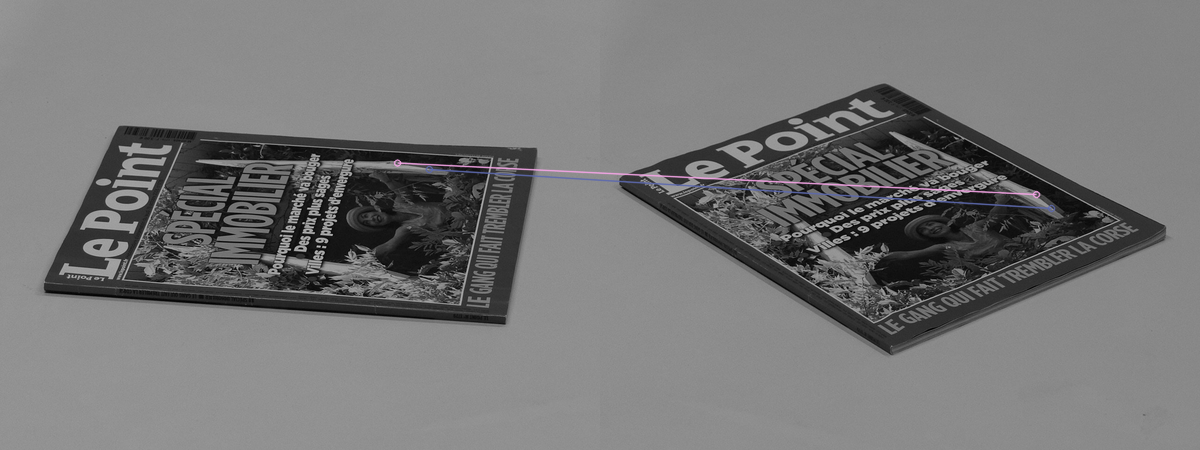
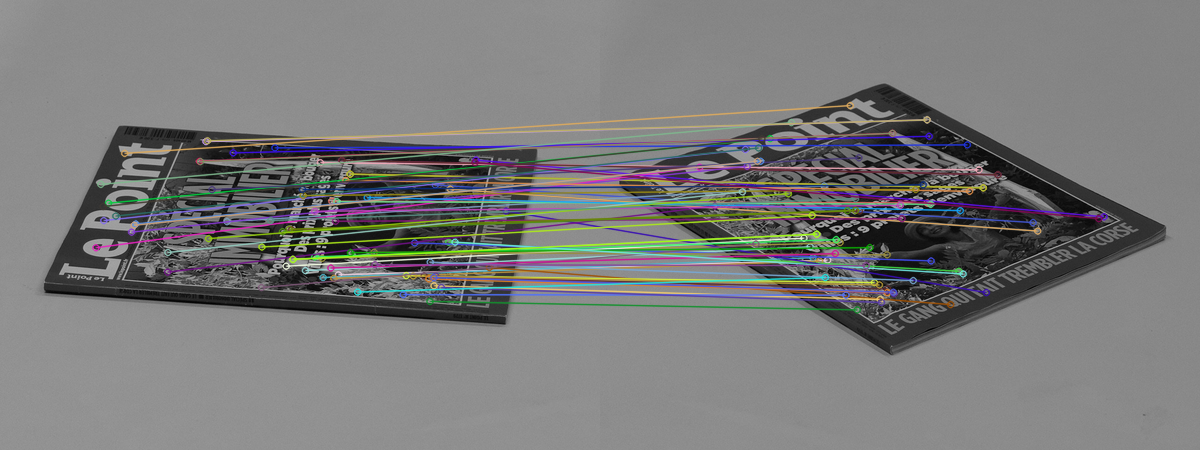
FLANN matching + commenting

Changed region(s): [[0.0617, 0.2178, 0.925, 0.7156], [0.1233, 0.5911, 0.185, 0.6222]]

diff --git a/CSS487-Project/main.cpp b/CSS487-Project/main.cpp
@@ -24,20 +24,20 @@ const string IMAGE_2_FILENAME = "image2.png";
 
 const int BEST_MATCHES_TO_DISPLAY = 75;
 
-const float DISTANCE_RATIO_THRESHOLD = 0.65f;
+const float DISTANCE_RATIO_THRESHOLD = 0.7f;
 
-// standardSIFT: Performs the standard function of SIFT.
-// Preconditions: image passed in is a Mat that represents a grayscale image.
-// Postconditions: keypoints and descriptors will be filled in.
-void SIFTDetectAndCompute(const Mat& image, vector<KeyPoint>& keypoints, Mat& descriptors) {
+// BRISKDetectAndCompute: Performs keypoint detection and descriptor calculation via BRISK.
+// Preconditions: Image passed in is a Mat that represents a grayscale image.
+// Postconditions: Keypoints and descriptors will be filled in.
+void BRISKDetectAndCompute(const Mat& image, vector<KeyPoint>& keypoints, Mat& descriptors) {
 	Ptr<BRISK> ptrBrisk = BRISK::create();
 	ptrBrisk->detect(image, keypoints);
 	ptrBrisk->compute(image, keypoints, descriptors);
 }
 
 // main:
-// preconditions: 
-// postconditions: 
+// Preconditions: 
+// Postconditions: 
 int main(int argc, char* argv[])
 {
 	// Load up the images.
@@ -51,8 +51,8 @@ int main(int argc, char* argv[])
 
 	// First image.
 	auto startTime = chrono::high_resolution_clock::now();
-	SIFTDetectAndCompute(image1, keypoints1, descriptors1);
-	//asd.detectAndCompute(image1, keypoints1, descriptors1);		// ASIFT.
+	//BRISKDetectAndCompute(image1, keypoints1, descriptors1);
+	asd.detectAndCompute(image1, keypoints1, descriptors1);		// ASIFT.
 	auto endTime = chrono::high_resolution_clock::now();
 	auto time = endTime - startTime;
 	cout << "Keypoints for first image found ("
@@ -60,8 +60,8 @@ int main(int argc, char* argv[])
 
 	// Second image.
 	startTime = chrono::high_resolution_clock::now();
-	SIFTDetectAndCompute(image2, keypoints2, descriptors2);
-	//asd.detectAndCompute(image2, keypoints2, descriptors2);		// ASIFT.
+	//BRISKDetectAndCompute(image2, keypoints2, descriptors2);
+	asd.detectAndCompute(image2, keypoints2, descriptors2);		// ASIFT.
 	endTime = chrono::high_resolution_clock::now();
 	time = endTime - startTime;
 	cout << "Keypoints for second image found ("
@@ -69,18 +69,21 @@ int main(int argc, char* argv[])
 	cout << "Performing matching..." << endl;
 	
 	// Match descriptors between images.
-	BFMatcher bfm = BFMatcher(NORM_HAMMING);
+	FlannBasedMatcher matcher;
+	//BFMatcher matcher = BFMatcher(NORM_HAMMING);
 	vector<vector<DMatch>> matches;
 	vector<DMatch> bestMatches;
 
+	descriptors1.convertTo(descriptors1, CV_32F);				// Convert to CV_32F to work with FLANN.
+	descriptors2.convertTo(descriptors2, CV_32F);				// Convert to CV_32F to work with FLANN.
 	startTime = chrono::high_resolution_clock::now();
-	bfm.knnMatch(descriptors1, descriptors2, matches, 2);
+	matcher.knnMatch(descriptors1, descriptors2, matches, 2);
 	endTime = chrono::high_resolution_clock::now();
 	time = endTime - startTime;
 	cout << "Found " << matches.size() << " matches("
 			<< time / chrono::milliseconds(1) << " ms)" << endl;
 
-	// Extract the best matches.
+	// Extract the best matches using Lowe's ratio test.
 	startTime = chrono::high_resolution_clock::now();
 	for (int i = 0; i < matches.size(); i++) {
 		float distanceRatio = matches[i][0].distance / matches[i][1].distance;

diff --git a/CSS487-Project/ASiftDetector.cpp b/CSS487-Project/ASiftDetector.cpp
@@ -1,13 +1,20 @@
+// ASiftDetector.cpp
+// Author: Matt Sheckells, from http://www.mattsheckells.com/opencv-asift-c-implementation/
+// Modified by: Derek Slater, Shakeel Khan
+
+// Misc. imports.
 #include "ASiftDetector.h"
 
+// STD imports.
 #include <iostream>
+#define _USE_MATH_DEFINES
+#include <math.h>
 
+// OpenCV imports.
 #include <opencv2/features2d.hpp>
 #include <opencv2/imgproc/imgproc.hpp>
 #include <opencv2/highgui/highgui.hpp>
 
-#define _USE_MATH_DEFINES
-#include <math.h>
 
 ASiftDetector::ASiftDetector() { }
 
@@ -17,7 +24,7 @@ void ASiftDetector::detectAndCompute(const Mat& img, std::vector<KeyPoint>& keyp
     descriptors = Mat(0, 128, CV_32F);
     for (int tl = 1; tl < 6; tl++)
     {
-        double t = pow(sqrt(2), tl - 1); //modified
+        double t = pow(sqrt(2), tl - 1);
         for (int phi = 0; phi < 180; phi += 72.0 / t)
         {
             std::vector<KeyPoint> kps;
@@ -35,10 +42,10 @@ void ASiftDetector::detectAndCompute(const Mat& img, std::vector<KeyPoint>& keyp
             waitKey(0);
 #endif
 
-            Ptr<BRISK> ptrBrisk = BRISK::create(); //added in
-            ptrBrisk->detect(timg, kps, mask); //added in
+            Ptr<BRISK> ptrBrisk = BRISK::create();
+            ptrBrisk->detect(timg, kps, mask);
 
-            ptrBrisk->compute(timg, kps, desc); //added in
+            ptrBrisk->compute(timg, kps, desc);
 
             for (unsigned int i = 0; i < kps.size(); i++)
             {

diff --git a/CSS487-Project/ASiftDetector.h b/CSS487-Project/ASiftDetector.h
@@ -1,7 +1,12 @@
+// ASiftDetector.h
+// Author: Matt Sheckells, from http://www.mattsheckells.com/opencv-asift-c-implementation/
+
+// STD imports.
 #include <vector>
+
+// OpenCV imports.
 #include <opencv2/core/core.hpp>
 #include <opencv2/features2d.hpp>
-
 using namespace cv;
 
 class ASiftDetector
